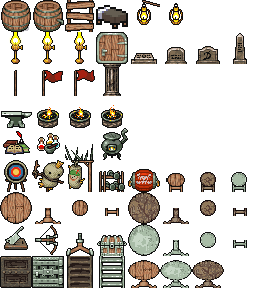
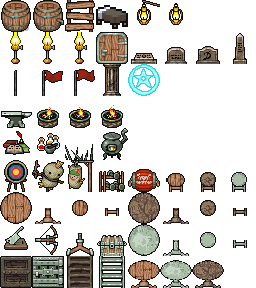
teleporter pretty much working. only wizards can craft magical items now

Changed region(s): [[0.5, 0.2188, 0.625, 0.3438]]

diff --git a/DwarfCorp/DwarfCorpXNA/Components/AI/CreatureMovement.cs b/DwarfCorp/DwarfCorpXNA/Components/AI/CreatureMovement.cs
@@ -42,6 +42,9 @@ namespace DwarfCorp
     public class CreatureMovement
     {
 
+        private int TeleportDistance = SummoningCircle.TeleportDistance;
+        private int TeleportDistanceSquared = SummoningCircle.TeleportDistance * SummoningCircle.TeleportDistance;
+
         public CreatureMovement()
         {
 
@@ -323,10 +326,10 @@ namespace DwarfCorp
             var successors = EnumerateSuccessors(state, voxel, neighborHood, inWater, standingOnGround, topCovered, hasNeighbors, isRiding, neighborObjects);
             if (Can(MoveType.Teleport))
             {
-                var teleportObjects = Parent.Faction.OwnedObjects.Where(obj => obj.Tags.Contains("Teleporter"));
+                var teleportObjects = Parent.Faction.OwnedObjects.Where(obj => obj.Active && obj.Tags.Contains("Teleporter"));
                 foreach (var obj in teleportObjects)
                 {
-                    if ((obj.Position - Parent.Position).LengthSquared() < 100)
+                    if ((obj.Position - state.Voxel.WorldPosition).LengthSquared() < TeleportDistanceSquared)
                     {
                         yield return new MoveAction()
                         {
@@ -724,6 +727,37 @@ namespace DwarfCorp
                 yield break;
             }
             var current = currentstate.Voxel;
+
+            if (Can(MoveType.Teleport))
+            {
+                var teleportObjects = Parent.Faction.OwnedObjects.Where(obj => obj.Active && obj.Tags.Contains("Teleporter"));
+                foreach (var obj in teleportObjects)
+                {
+                    if ((obj.Position - current.WorldPosition).LengthSquared() > 2)
+                        continue;
+
+                    for (int dx = -TeleportDistance; dx <= TeleportDistance; dx++)
+                        for (int dz = -TeleportDistance; dz <= TeleportDistance; dz++)
+                            for (int dy = -TeleportDistance; dy <= TeleportDistance; dy++)
+                            {
+                                if (dx * dx + dy * dy + dz * dz > TeleportDistanceSquared)
+                                    continue;
+                                VoxelHandle teleportNeighbor = new VoxelHandle(Parent.World.ChunkManager.ChunkData, current.Coordinate + new GlobalVoxelOffset(dx, dy, dz));
+
+                                if (teleportNeighbor.IsValid && teleportNeighbor.IsEmpty && !VoxelHelpers.GetNeighbor(teleportNeighbor, new GlobalVoxelOffset(0, -1, 0)).IsEmpty)
+                                {
+                                    yield return new MoveAction()
+                                    {
+                                        InteractObject = obj,
+                                        Diff = new Vector3(dx, dx, dz),
+                                        SourceVoxel = teleportNeighbor,
+                                        DestinationState = currentstate,
+                                        MoveType = MoveType.Teleport
+                                    };
+                                }
+                            }
+                }
+            }
             foreach (var v in VoxelHelpers.EnumerateCube(current.Coordinate)
                 .Select(n => new VoxelHandle(current.Chunk.Manager.ChunkData, n))
                 .Where(h => h.IsValid && h.IsEmpty))

diff --git a/DwarfCorp/DwarfCorpXNA/Scripting/LeafActs/FollowPathAct.cs b/DwarfCorp/DwarfCorpXNA/Scripting/LeafActs/FollowPathAct.cs
@@ -246,8 +246,9 @@ namespace DwarfCorp
             return false;
         }
 
+        private MoveType lastMovement = MoveType.Walk;
         public IEnumerable<Status> PerformCurrentAction()
-        {
+        { 
             MoveAction action = Path.First();
             float t = 0;
             int currentIndex = 0;
@@ -467,13 +468,22 @@ namespace DwarfCorp
                     yield return Act.Status.Success;
                     yield break;
                 case MoveType.Teleport:
+                    if (lastMovement != MoveType.Teleport)
+                    {
+                        SoundManager.PlaySound(ContentPaths.Audio.Oscar.sfx_ic_dwarf_magic_research, currPosition, true, 1.0f);
+                    }
                     Agent.GetRoot().SetFlagRecursive(GameComponent.Flag.Visible, false);
                     Agent.World.ParticleManager.Trigger("star_particle", diff * t + currPosition, Color.White, 1);
+                    if (action.InteractObject != null)
+                    {
+                        Agent.World.ParticleManager.Trigger("green_flame", (action.InteractObject as Body).Position, Color.White, 1);
+                    }
                     transform.Translation = action.DestinationVoxel.WorldPosition + Vector3.One * 0.5f;
                     break;
             }
 
             Agent.Physics.LocalTransform = transform;
+            lastMovement = action.MoveType;
         }
 
         private void SetupMinecart()

diff --git a/DwarfCorp/DwarfCorpXNA/Scripting/TaskManagement/Tasks/CraftItemTask.cs b/DwarfCorp/DwarfCorpXNA/Scripting/TaskManagement/Tasks/CraftItemTask.cs
@@ -64,6 +64,8 @@ namespace DwarfCorp
             foreach (var tinter in CraftDesignation.Entity.EnumerateAll().OfType<Tinter>())
                 tinter.Stipple = true;
             BoredomIncrease = 0.2f;
+            if (CraftDesignation.ItemType.IsMagical)
+                Category = TaskCategory.Research;
         }
 
         public override void OnEnqueued(Faction Faction)
@@ -116,7 +118,10 @@ namespace DwarfCorp
 
         public override Feasibility IsFeasible(Creature agent)
         {
-            if (!agent.Stats.IsTaskAllowed(TaskCategory.BuildObject))
+            if (!CraftDesignation.ItemType.IsMagical && !agent.Stats.IsTaskAllowed(TaskCategory.BuildObject))
+                return Feasibility.Infeasible;
+
+            if (CraftDesignation.ItemType.IsMagical && !agent.Stats.IsTaskAllowed(TaskCategory.Research))
                 return Feasibility.Infeasible;
 
             if (agent.AI.Status.IsAsleep)

diff --git a/DwarfCorp/DwarfCorpXNA/Scripting/Crafting/CraftItem.cs b/DwarfCorp/DwarfCorpXNA/Scripting/Crafting/CraftItem.cs
@@ -98,6 +98,8 @@ namespace DwarfCorp
         public CraftActBehaviors CraftActBehavior = CraftActBehaviors.Normal;
         public bool AllowRotation = false;
         public string Category = "";
+        public bool IsMagical = false;
+
         /// <summary>
         /// If true, this will be displayed in the list of resources that the player can craft.
         /// </summary>
@@ -173,7 +175,7 @@ namespace DwarfCorp
                 toReturn.Type = CraftType.Resource;
                 toReturn.CraftActBehavior = CraftActBehaviors.Object;
                 toReturn.ResourceCreated = "Object";
-                toReturn.CraftLocation = "Anvil";
+                toReturn.CraftLocation = CraftLocation;
                 toReturn.ObjectName = Name;
                 toReturn.AllowUserCrafting = false;
                 CraftLibrary.Add(toReturn);

diff --git a/DwarfCorp/DwarfCorpXNA/Scripting/TaskManagement/Tasks/CraftResourceTask.cs b/DwarfCorp/DwarfCorpXNA/Scripting/TaskManagement/Tasks/CraftResourceTask.cs
@@ -134,8 +134,12 @@ namespace DwarfCorp
 
         public override Feasibility IsFeasible(Creature agent)
         {
-            if (!agent.Stats.IsTaskAllowed(TaskCategory.BuildObject))
+            if (!this.Item.ItemType.IsMagical && !agent.Stats.IsTaskAllowed(TaskCategory.BuildObject))
                 return Feasibility.Infeasible;
+
+            if (this.Item.ItemType.IsMagical && !agent.Stats.IsTaskAllowed(TaskCategory.Research))
+                return Feasibility.Infeasible;
+
             return HasResources(agent) && HasLocation(agent) ? Feasibility.Feasible : Feasibility.Infeasible;
         }
 
